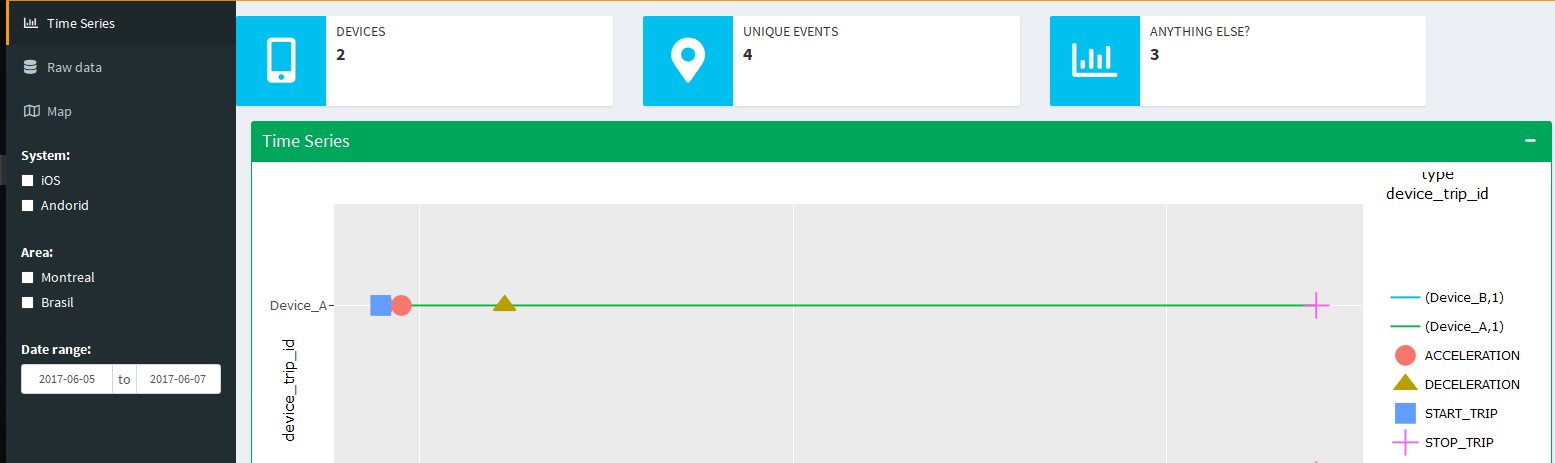
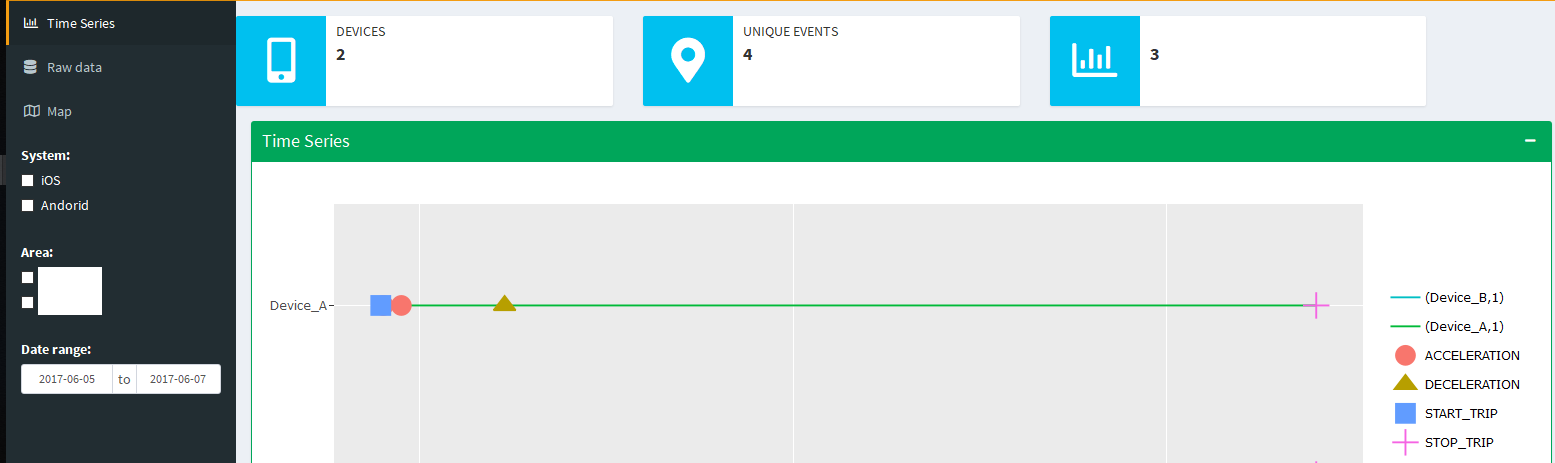
finish telemetry images and desc.

Changed region(s): [[0.0, 0.5745, 0.0926, 0.6955], [0.8952, 0.3629, 0.9569, 0.4536], [0.7408, 0.0605, 0.8026, 0.0907]]

diff --git a/README.md b/README.md
@@ -67,4 +67,10 @@ _Note: During Canadian winter months, all stations are yellow (empty)_
 
 [Code](https://github.com/danvargg/folio/tree/master/bixi) | [Application](https://danvargg.shinyapps.io/bixi/) | **Tools**: _R, Leaflet, Shiny_
 
-_Note: Codes and data have been modified to keep data and original code confidentiality_
+  - __Telemetry Dashboard__: Dashboard to visualize telemetry data from multiple devices: timeline visual, raw data and geolocation.
+
+<img src="https://github.com/danvargg/folio/blob/master/telemetry/telemetry1.PNG width=50%><img src="https://github.com/danvargg/folio/blob/master/telemetry/telemetry2.PNG" width=50%><img src="https://github.com/danvargg/folio/blob/master/telemetry/telemetry3.PNG" width=50%>
+
+[Images](https://github.com/danvargg/folio/tree/master/telemetry) | **Tools**: _R, Leaflet, Shiny, Plotly_
+
+**_Note: Codes and data have been modified to keep data and original code confidentiality_**
